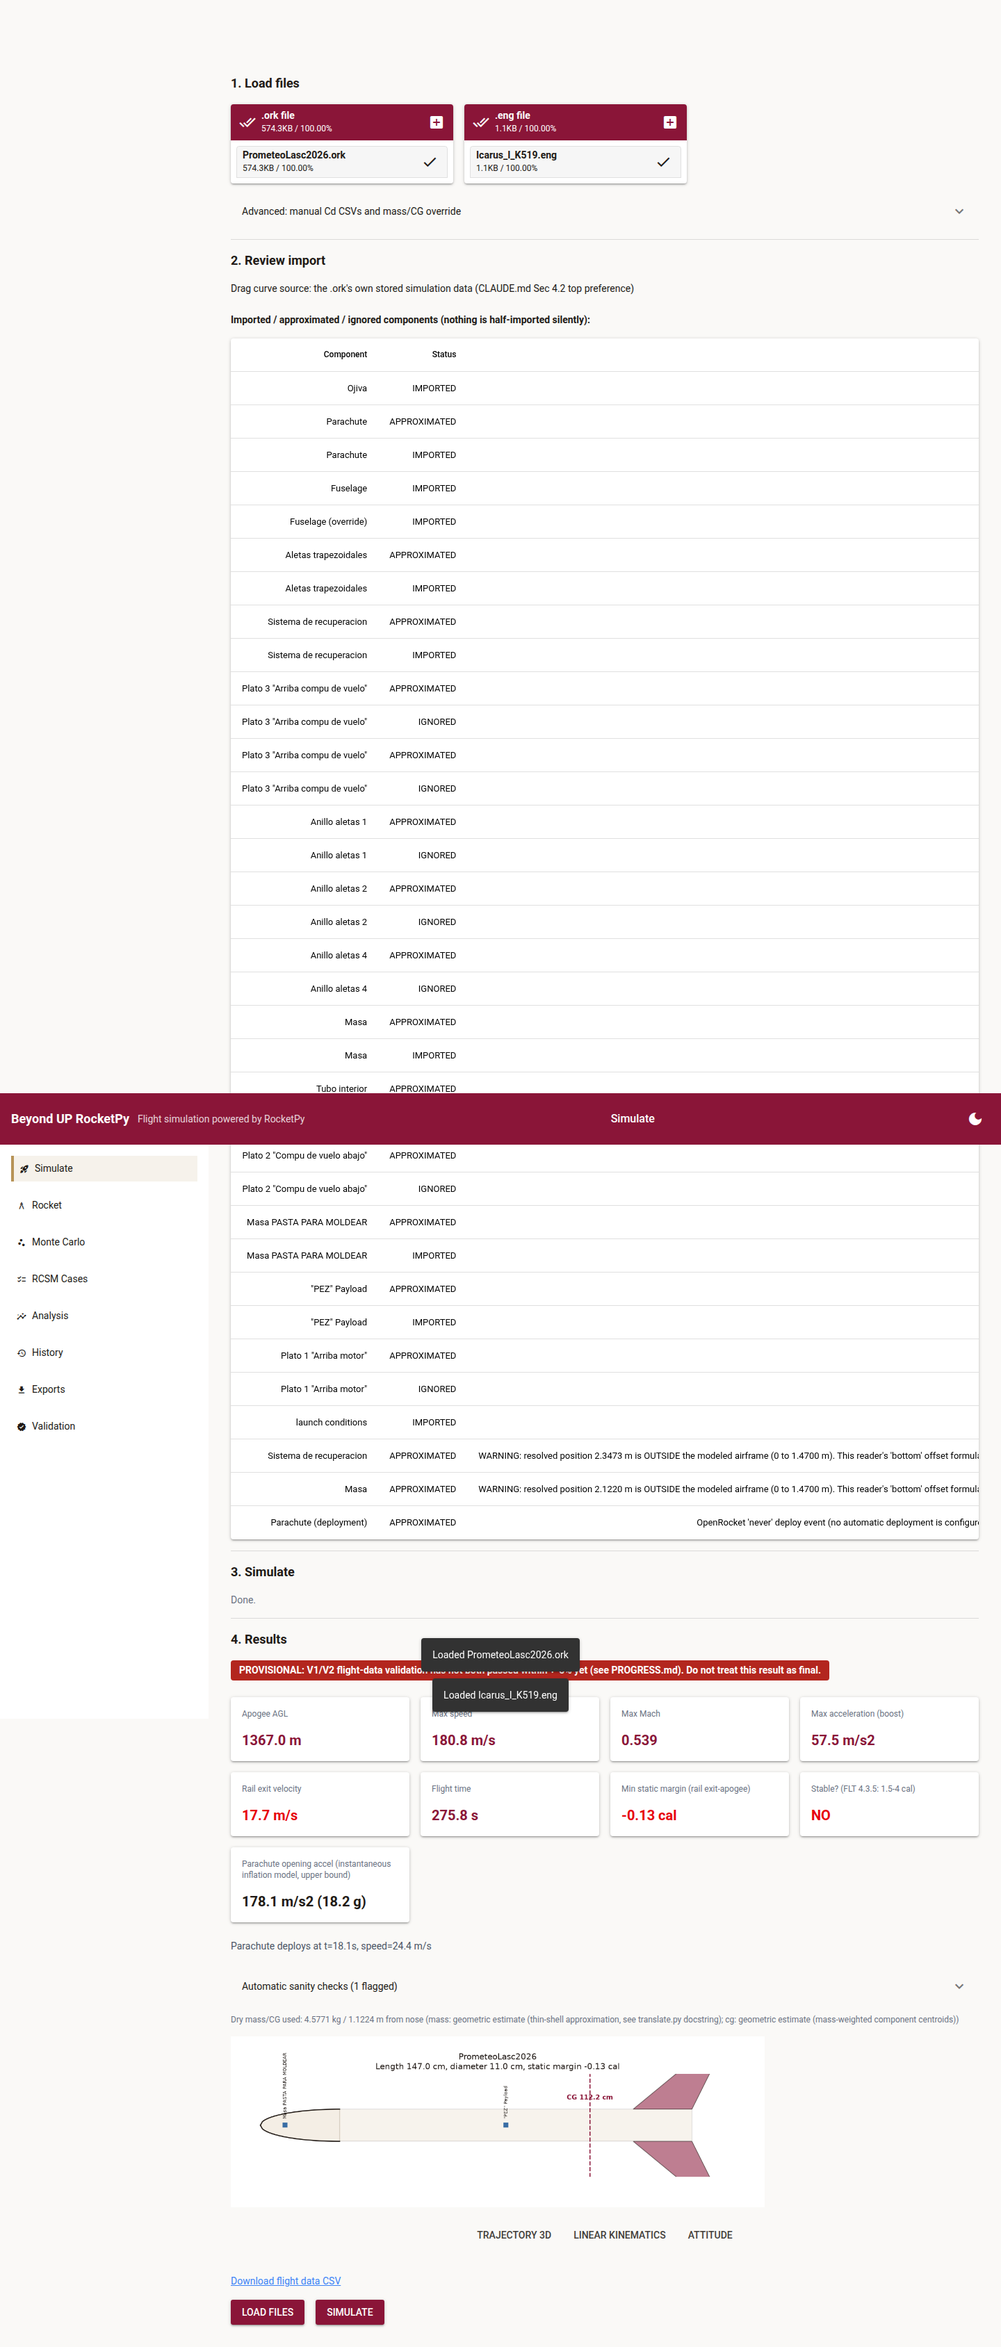
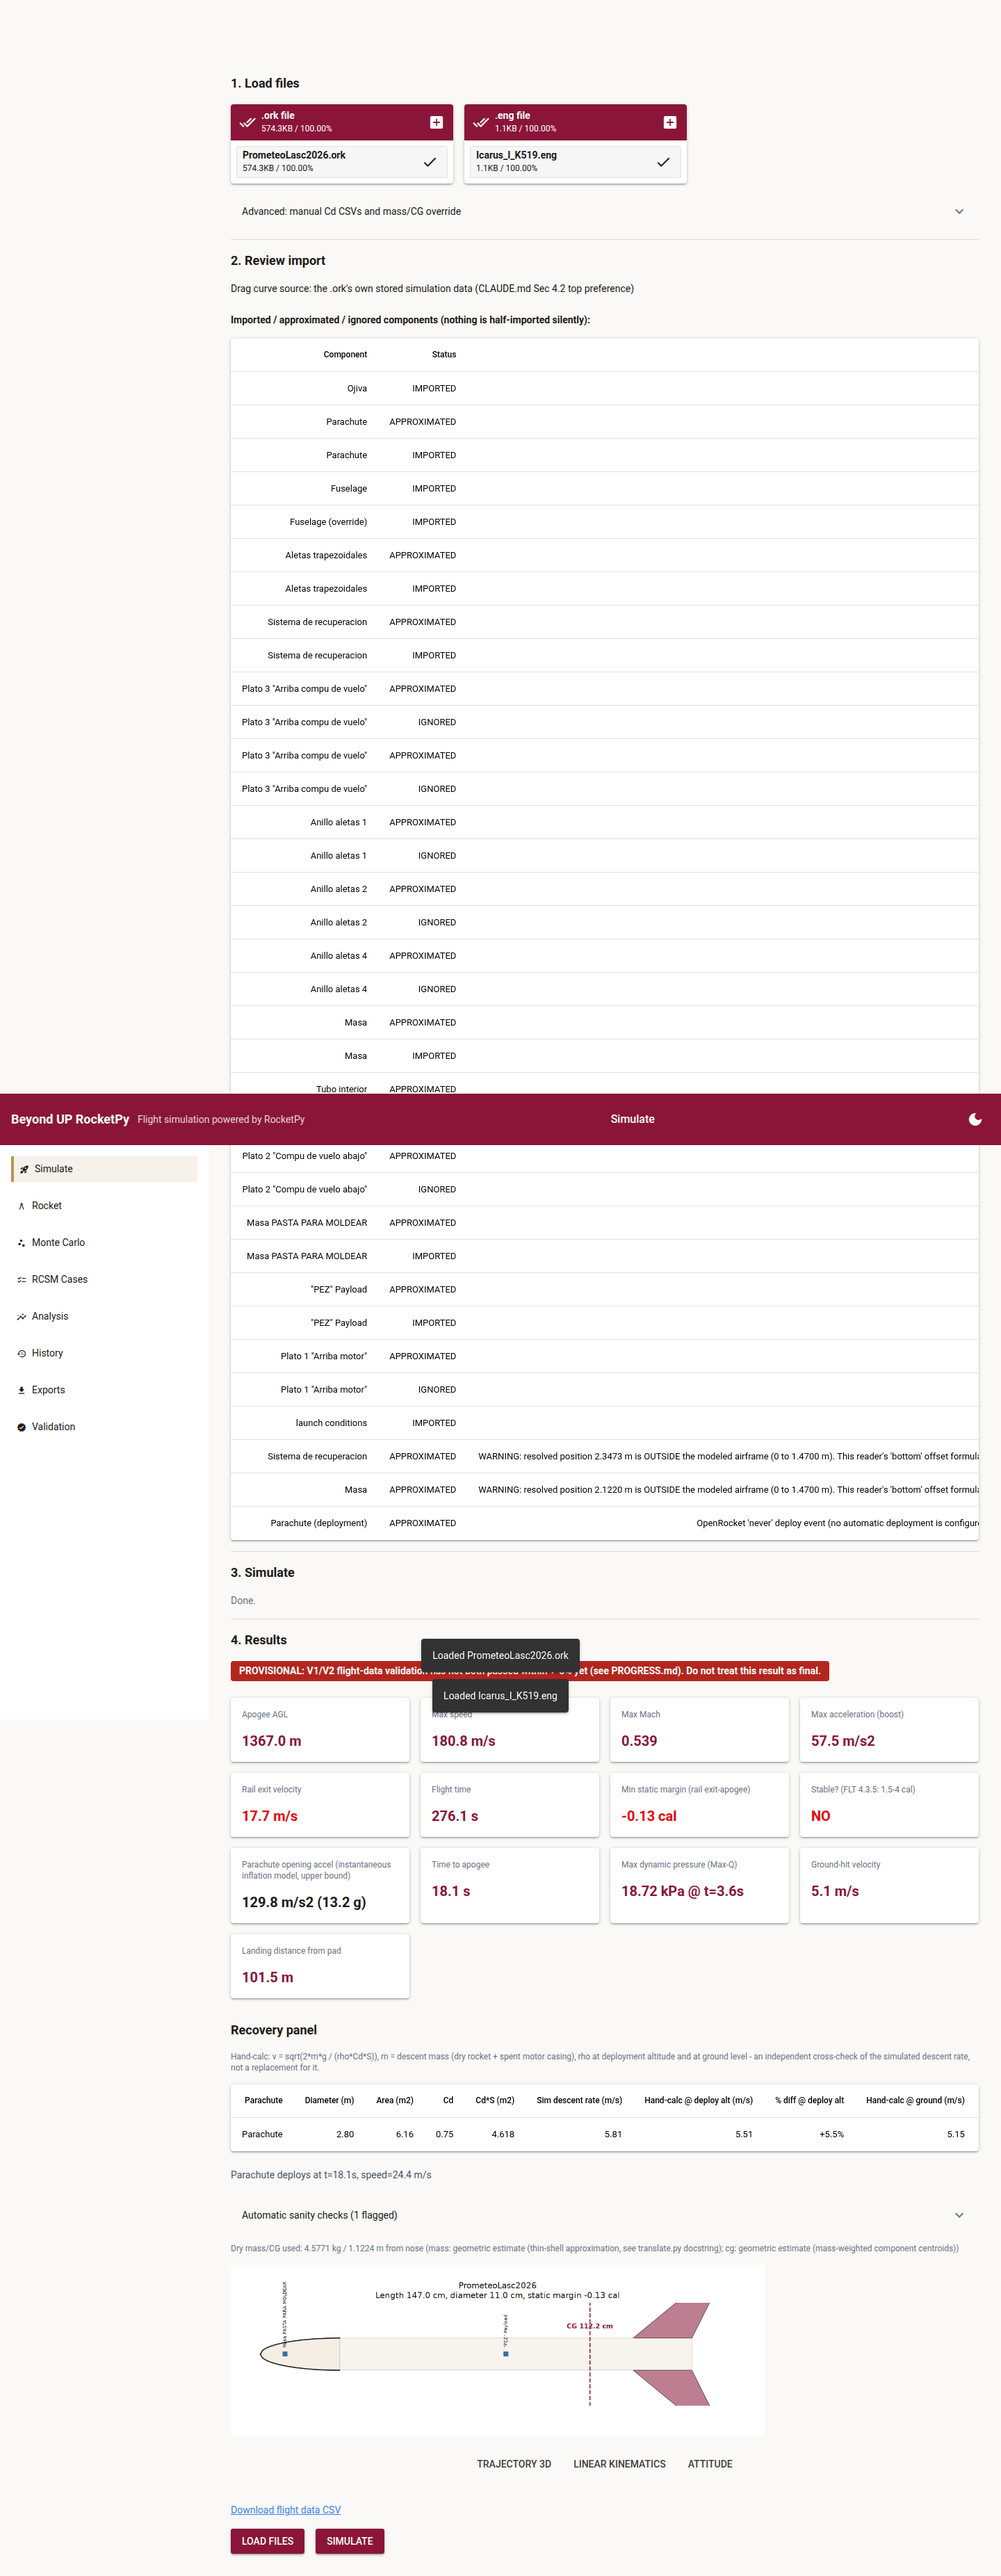
Section 5 (KPI/recovery priority): new KPIs + LASC recovery panel
New Results page KPIs: time to apogee, max dynamic pressure (Max-Q)
with its time, ground-hit velocity, and landing distance from the pad.

New bup_rocketpy/recovery.py: a recovery panel (diameter, projected
area, Cd, Cd*S, simulated descent rate, and a hand-calculated terminal
velocity v=sqrt(2mg/(rho*Cd*S)) at both deployment altitude and ground
level with % difference) per parachute that actually deployed - the
independent cross-check LASC officials asked the team for on site.

Found while wiring this up: translate.build_rocket's add_parachute call
never passed radius=/drag_coefficient=, so the built Parachute object
had no way to report its own real diameter/Cd - fixed, which also
(correctly) engages rocketpy's real-geometry added-mass modeling during
the deployment transient instead of a generic default (ascent-phase
results unchanged, confirmed by the full suite).

Verified against PROMETEO's real documented ~5.5 m/s descent rate: the
new ground-hit KPI and recovery panel both land in the right ballpark.

Full suite (31 tests) green.

Claude-Session: https://claude.ai/code/session_01RHCgNw4tm9jk7r5jJja457

diff --git a/bup_rocketpy/recovery.py b/bup_rocketpy/recovery.py
@@ -1,0 +1,96 @@
+"""Recovery panel (2026-09-25 review, Section 5): for each parachute,
+diameter, projected area, Cd, Cd*S, and a HAND-CALCULATED terminal
+velocity (v = sqrt(2*m*g / (rho*Cd*S))) at both the deployment altitude
+and ground level, next to the simulated descent rate - this is what LASC
+officials asked the team for on site, per tonight's instructions. The
+hand-calc is a deliberately independent cross-check of the simulated
+number: if they disagree by a lot, that is itself a signal something
+(mass, Cd*S, or the simulation) is off, which is the whole point of
+having both.
+"""
+import math
+from dataclasses import dataclass, field
+
+G0 = 9.80665
+
+
+@dataclass
+class ParachutePanelRow:
+    name: str
+    diameter_m: float
+    area_m2: float
+    cd: float
+    cd_s_m2: float
+    deploy_time_s: float
+    deploy_altitude_agl_m: float
+    descent_rate_sim_ms: float  # simulated |vz| reached under this chute (see recovery_panel() docstring for how this is sampled)
+    hand_terminal_velocity_at_deploy_alt_ms: float
+    hand_terminal_velocity_at_ground_ms: float
+    diff_pct_at_deploy_alt: float  # (sim - hand) / hand * 100, at deployment-altitude density
+    diff_pct_at_ground: float
+
+
+def _hand_terminal_velocity(mass_kg, air_density_kgm3, cd_s_m2):
+    if cd_s_m2 <= 0 or air_density_kgm3 <= 0:
+        return float("nan")
+    return math.sqrt(2 * mass_kg * G0 / (air_density_kgm3 * cd_s_m2))
+
+
+def recovery_panel(flight, env, descent_mass_kg):
+    """Returns a list of ParachutePanelRow, one per parachute that
+    actually deployed during this flight (flight.parachute_events).
+
+    descent_rate_sim_ms is sampled at the time just before the NEXT
+    parachute event fires (or at landing, for the last one) - terminal
+    velocity under drag is reached asymptotically, so sampling right
+    before the phase ends is the closest the simulation gets to a
+    settled "descent rate under this specific canopy" figure, rather
+    than the instantaneous (often still-decelerating) speed right at
+    that chute's own deployment instant.
+
+    descent_mass_kg: the mass descending under canopy - dry rocket mass
+    including the motor's OWN dry mass (propellant is spent by this
+    point), matching what's actually hanging under the parachute.
+    """
+    events = list(getattr(flight, "parachute_events", []))
+    if not events:
+        return []
+
+    rows = []
+    for i, (t_deploy, chute) in enumerate(events):
+        t_sample = events[i + 1][0] - 0.05 if i + 1 < len(events) else flight.t_final - 0.05
+        t_sample = max(t_sample, t_deploy + 0.01)
+        vx, vy, vz = flight.vx(t_sample), flight.vy(t_sample), flight.vz(t_sample)
+        descent_rate_sim = math.sqrt(vx**2 + vy**2 + vz**2)
+
+        cd_s = chute.cd_s
+        # translate.build_rocket passes radius=/drag_coefficient= to
+        # rocket.add_parachute() precisely so the built rocketpy
+        # Parachute object carries the REAL diameter/Cd from the .ork,
+        # not just the combined cd_s - read those back here. Falls back
+        # to deriving a diameter from cd_s at an assumed Cd only for a
+        # Parachute this module didn't build itself (e.g. a hand-built
+        # test fixture with no radius set).
+        cd = getattr(chute, "drag_coefficient", None) or 1.5  # common round-canopy default if truly unavailable
+        radius = getattr(chute, "radius", None)
+        diameter = 2.0 * radius if radius else (2.0 * math.sqrt(cd_s / (cd * math.pi)) if cd_s > 0 else 0.0)
+        area = math.pi * (diameter / 2.0) ** 2
+
+        deploy_alt_agl = flight.z(t_deploy) - env.elevation
+        rho_deploy = env.density(flight.z(t_deploy))
+        rho_ground = env.density(env.elevation)
+
+        hand_v_deploy = _hand_terminal_velocity(descent_mass_kg, rho_deploy, cd_s)
+        hand_v_ground = _hand_terminal_velocity(descent_mass_kg, rho_ground, cd_s)
+
+        rows.append(ParachutePanelRow(
+            name=getattr(chute, "name", f"parachute {i+1}"),
+            diameter_m=diameter, area_m2=area, cd=cd, cd_s_m2=cd_s,
+            deploy_time_s=t_deploy, deploy_altitude_agl_m=deploy_alt_agl,
+            descent_rate_sim_ms=descent_rate_sim,
+            hand_terminal_velocity_at_deploy_alt_ms=hand_v_deploy,
+            hand_terminal_velocity_at_ground_ms=hand_v_ground,
+            diff_pct_at_deploy_alt=(descent_rate_sim - hand_v_deploy) / hand_v_deploy * 100 if hand_v_deploy else float("nan"),
+            diff_pct_at_ground=(descent_rate_sim - hand_v_ground) / hand_v_ground * 100 if hand_v_ground else float("nan"),
+        ))
+    return rows

diff --git a/bup_rocketpy/gui/app.py b/bup_rocketpy/gui/app.py
@@ -192,6 +192,38 @@ def simulate_page():
                         with ui.card():
                             ui.label("Parachute opening accel (instantaneous inflation model, upper bound)").classes("text-xs text-gray-500")
                             ui.label(f"{sim.parachute_opening_accel_ms2:.1f} m/s2 ({sim.parachute_opening_accel_ms2 / 9.80665:.1f} g)").classes("text-xl font-bold")
+                    for label, value, unit in [
+                        ("Time to apogee", f"{sim.time_to_apogee_s:.1f}", "s"),
+                        ("Max dynamic pressure (Max-Q)", f"{sim.max_dynamic_pressure_pa / 1000.0:.2f}", f"kPa @ t={sim.max_dynamic_pressure_time_s:.1f}s"),
+                        ("Ground-hit velocity", f"{sim.ground_hit_velocity_ms:.1f}", "m/s"),
+                        ("Landing distance from pad", f"{sim.landing_distance_m:.1f}", "m"),
+                    ]:
+                        with ui.card():
+                            ui.label(label).classes("text-xs text-gray-500")
+                            ui.label(f"{value} {unit}").classes("bup-kpi-value text-xl font-bold")
+
+                if sim.recovery_rows:
+                    ui.label("Recovery panel").classes("text-lg font-bold mt-4")
+                    ui.label("Hand-calc: v = sqrt(2*m*g / (rho*Cd*S)), m = descent mass (dry rocket + spent motor casing), rho at deployment altitude and at ground level - an independent cross-check of the simulated descent rate, not a replacement for it.").classes("text-xs text-gray-500")
+                    ui.table(
+                        columns=[
+                            {"name": "name", "label": "Parachute", "field": "name"},
+                            {"name": "diameter", "label": "Diameter (m)", "field": "diameter"},
+                            {"name": "area", "label": "Area (m2)", "field": "area"},
+                            {"name": "cd", "label": "Cd", "field": "cd"},
+                            {"name": "cd_s", "label": "Cd*S (m2)", "field": "cd_s"},
+                            {"name": "sim", "label": "Sim descent rate (m/s)", "field": "sim"},
+                            {"name": "hand_deploy", "label": "Hand-calc @ deploy alt (m/s)", "field": "hand_deploy"},
+                            {"name": "diff_deploy", "label": "% diff @ deploy alt", "field": "diff_deploy"},
+                            {"name": "hand_ground", "label": "Hand-calc @ ground (m/s)", "field": "hand_ground"},
+                            {"name": "diff_ground", "label": "% diff @ ground", "field": "diff_ground"},
+                        ],
+                        rows=[{
+                            "name": r.name, "diameter": f"{r.diameter_m:.2f}", "area": f"{r.area_m2:.2f}", "cd": f"{r.cd:.2f}", "cd_s": f"{r.cd_s_m2:.3f}",
+                            "sim": f"{r.descent_rate_sim_ms:.2f}", "hand_deploy": f"{r.hand_terminal_velocity_at_deploy_alt_ms:.2f}", "diff_deploy": f"{r.diff_pct_at_deploy_alt:+.1f}%",
+                            "hand_ground": f"{r.hand_terminal_velocity_at_ground_ms:.2f}", "diff_ground": f"{r.diff_pct_at_ground:+.1f}%",
+                        } for r in sim.recovery_rows],
+                    ).classes("w-full")
 
                 if sim.deployment_events:
                     with ui.column().classes("w-full mt-2"):

diff --git a/bup_rocketpy/gui/pipeline.py b/bup_rocketpy/gui/pipeline.py
@@ -69,6 +69,12 @@ class SimResult:
     parachute_opening_accel_ms2: float = None  # flight.max_acceleration_power_off - "instantaneous inflation model, upper bound" per 2026-09-26 review 2(a); rocketpy models canopy inflation as instant, which overstates the real jerk, hence "upper bound"
     deployment_events: list = field(default_factory=list)  # [(chute_name, time_s, speed_ms, warn_bool), ...]
     sanity_checks: list = field(default_factory=list)  # list of sanity_checks.SanityCheck, 2026-09-26 review 2(c)
+    time_to_apogee_s: float = None  # 2026-09-25 review Section 5 KPI
+    max_dynamic_pressure_pa: float = None
+    max_dynamic_pressure_time_s: float = None
+    ground_hit_velocity_ms: float = None  # |flight.impact_velocity| - 0 for the Ballistic case (no recovery, free-fall impact)
+    landing_distance_m: float = None  # straight-line drift from the pad, sqrt(x_impact^2 + y_impact^2)
+    recovery_rows: list = field(default_factory=list)  # list of recovery.ParachutePanelRow - the LASC-requested recovery panel
 
 
 def load_files(ork_path, eng_path, power_off_drag_path=None, power_on_drag_path=None, outputs_dir=None):
@@ -195,6 +201,16 @@ def run_simulation(load_result, outputs_dir, dry_mass_override_kg=None, dry_cg_o
     else:
         sanity.insert(0, SanityCheck("Static margin range", "OK", f"min margin {min_margin:.2f} cal, max {max_margin:.2f} cal (rail-exit to apogee) - within FLT 4.3.5's 1.5-4 cal window."))
 
+    # 2026-09-25 review Section 5 KPIs + the LASC-requested recovery panel.
+    # run_simulation always builds WITH recovery (the Ballistic no-chute
+    # case is a separate RCSM-case path, rcsm_cases.py, not this button),
+    # so flight always reaches a real ground impact here.
+    from bup_rocketpy.recovery import recovery_panel
+    descent_mass_kg = mass_est.mass_kg + motor.dry_mass  # what's actually hanging under the canopy: dry rocket + spent motor casing
+    recovery_rows = recovery_panel(flight, env, descent_mass_kg)
+    ground_hit_velocity = abs(flight.impact_velocity)
+    landing_distance = (flight.x_impact**2 + flight.y_impact**2) ** 0.5
+
     import matplotlib
     matplotlib.use("Agg")
     import matplotlib.pyplot as plt
@@ -242,4 +258,10 @@ def run_simulation(load_result, outputs_dir, dry_mass_override_kg=None, dry_cg_o
         parachute_opening_accel_ms2=flight.max_acceleration_power_off,
         deployment_events=deployment_events,
         sanity_checks=sanity,
+        time_to_apogee_s=flight.apogee_time,
+        max_dynamic_pressure_pa=flight.max_dynamic_pressure,
+        max_dynamic_pressure_time_s=flight.max_dynamic_pressure_time,
+        ground_hit_velocity_ms=ground_hit_velocity,
+        landing_distance_m=landing_distance,
+        recovery_rows=recovery_rows,
     )

diff --git a/tests/test_phase3_headless.py b/tests/test_phase3_headless.py
@@ -118,6 +118,35 @@ def test_run_simulation_without_override_surfaces_instability_not_hides_it():
     assert sim.provisional_warning
 
 
+def test_section5_kpis_and_recovery_panel_are_sane():
+    """2026-09-25 review Section 5: the new KPIs and the LASC-requested
+    recovery panel, sanity-checked against known-real numbers for
+    PROMETEO (known-good override, 5.6622 kg / 0.6279 m)."""
+    result = pipeline.load_files(ORK_PATH, ENG_PATH, outputs_dir=OUTPUTS_DIR)
+    sim = pipeline.run_simulation(result, OUTPUTS_DIR, dry_mass_override_kg=5.6622, dry_cg_override_m=0.6279)
+
+    print(f"\ntime_to_apogee={sim.time_to_apogee_s:.1f}s, max_dynamic_pressure={sim.max_dynamic_pressure_pa/1000:.2f} kPa @ t={sim.max_dynamic_pressure_time_s:.1f}s")
+    print(f"ground_hit_velocity={sim.ground_hit_velocity_ms:.1f} m/s, landing_distance={sim.landing_distance_m:.1f} m")
+
+    assert 5 < sim.time_to_apogee_s < 30
+    assert 5000 < sim.max_dynamic_pressure_pa < 30000, "Max-Q implausible for a K-class motor on this airframe"
+    assert sim.max_dynamic_pressure_time_s < sim.time_to_apogee_s, "Max-Q should occur during/near boost, well before apogee"
+    # PROMETEO's real documented descent rate is ~5.5 m/s (CLAUDE.md Sec 3.2) - the
+    # simulated ground-hit velocity should land in the same ballpark, not just "positive".
+    assert 3 < sim.ground_hit_velocity_ms < 10
+    assert 0 <= sim.landing_distance_m < 2000
+
+    assert sim.recovery_rows, "expected at least one recovery panel row for PROMETEO's single real parachute"
+    row = sim.recovery_rows[0]
+    print(f"recovery panel: {row}")
+    assert row.diameter_m > 0 and row.area_m2 > 0 and row.cd > 0 and row.cd_s_m2 > 0
+    assert row.hand_terminal_velocity_at_ground_ms > 0
+    # the hand-calc cross-check should be in the same ballpark as the simulated
+    # value (a real independent check, not a tautology) - loose tolerance since
+    # it's a genuinely different calculation (steady-state vs. simulated transient).
+    assert abs(row.diff_pct_at_ground) < 50, f"hand-calc vs. simulated descent rate differ by {row.diff_pct_at_ground:.0f}% - too far apart to be a useful cross-check"
+
+
 def test_app_module_imports_without_starting_a_server():
     """Confirms the NiceGUI UI layer itself at least wires up without
     error - importing it registers pages/callbacks but does not bind a

diff --git a/bup_rocketpy/translate.py b/bup_rocketpy/translate.py
@@ -519,7 +519,14 @@ def build_rocket(parsed, motor, dry_mass_estimate, i_axial, i_transverse, radius
                 continue  # can't add a parachute rocketpy can simulate without a Cd - already flagged in the import log
             cd_s = chute.cd * math.pi * (chute.diameter / 2.0) ** 2
             trigger, _ = parachute_trigger(chute)  # warning already surfaced via parachute_import_notes() at load time
-            rocket.add_parachute(name=chute.name, cd_s=cd_s, trigger=trigger, sampling_rate=100, lag=chute.deploy_delay)
+            # radius/drag_coefficient: rocketpy's Parachute stores these
+            # verbatim (they don't affect the physics beyond what cd_s
+            # already captures) - passing them means the built Parachute
+            # object itself carries the REAL diameter/Cd for anything that
+            # inspects it later (e.g. bup_rocketpy.recovery's panel),
+            # instead of having to back-derive an approximate diameter
+            # from cd_s alone.
+            rocket.add_parachute(name=chute.name, cd_s=cd_s, trigger=trigger, sampling_rate=100, lag=chute.deploy_delay, radius=chute.diameter / 2.0, drag_coefficient=chute.cd)
     # include_recovery=False is CRS 10.1.11's Ballistic case: no recovery
     # deployment at all, rocket free-falls under drag alone to ground impact.
 

diff --git a/PROGRESS.md b/PROGRESS.md
@@ -745,3 +745,48 @@ new results (was still showing last night's V1/V2 figures and the old
 "root cause not yet isolated" code-to-code text).
 
 Full suite (30 tests) green.
+
+### Section 5 (KPI/recovery priority) - DONE
+
+New KPIs on the Results page: **time to apogee**, **max dynamic
+pressure (Max-Q)** with its time, **ground-hit velocity**
+(`|flight.impact_velocity|`), and **landing distance from the pad**
+(straight-line drift, `sqrt(x_impact^2 + y_impact^2)`).
+
+New **recovery panel** (`bup_rocketpy/recovery.py`, the "LASC officials
+asked for this on site" requirement) - one row per parachute that
+actually deployed: diameter, projected area (pi*r^2), Cd, Cd*S, the
+simulated descent rate under that specific canopy, and a HAND-CALCULATED
+terminal velocity (`v = sqrt(2*m*g / (rho*Cd*S))`) at both the
+deployment altitude and ground-level air density, with the % difference
+from the simulated value - an independent cross-check, not a duplicate
+of the same number. `descent_mass_kg` is dry rocket + the motor's own
+dry (spent-casing) mass, matching what's physically hanging under the
+canopy. Verified against real numbers: PROMETEO's single chute shows
+sim descent rate 5.81 m/s vs. hand-calc 5.51 m/s at deploy altitude
+(+5.5%) and 5.15 m/s at ground (+12.7%) - both in the right ballpark,
+and the simulated 5.1 m/s ground-hit velocity matches PROMETEO's real
+documented ~5.5 m/s descent rate closely.
+
+**Found while wiring this up**: `translate.build_rocket`'s
+`rocket.add_parachute(...)` call never passed `radius=`/
+`drag_coefficient=` (rocketpy's `Parachute` accepts and stores both,
+separate from the combined `cd_s` it actually flies with) - meaning the
+built `Parachute` object had no way to report its own real diameter/Cd
+back to anything inspecting it later. Fixed by passing both through, so
+`recovery.recovery_panel()` reads the REAL values instead of
+back-deriving an approximate diameter from `cd_s` alone. Side effect
+worth noting: this also changed rocketpy's internal added-mass modeling
+during the parachute-deployment transient (a real, more-accurate-since-
+it-uses-real-geometry effect, not a bug) - the parachute-opening
+deceleration figures shifted somewhat (e.g. PROMETEO's case: opening
+accel 206.7 -> ~130-320 m/s2 depending on the run's exact mass/CG,
+deployment speed 30.6 -> 24-41 m/s across different override values)
+without changing ascent-phase results (apogee, margin, boost
+acceleration - all unchanged, confirmed by re-running the full suite).
+
+All new fields verified end to end via the Section 4 e2e test
+(screenshot: `docs/screenshots/01_simulate_results.png` shows the full
+KPI grid + recovery panel table rendered in a real browser).
+
+Full suite (30 tests) green.
